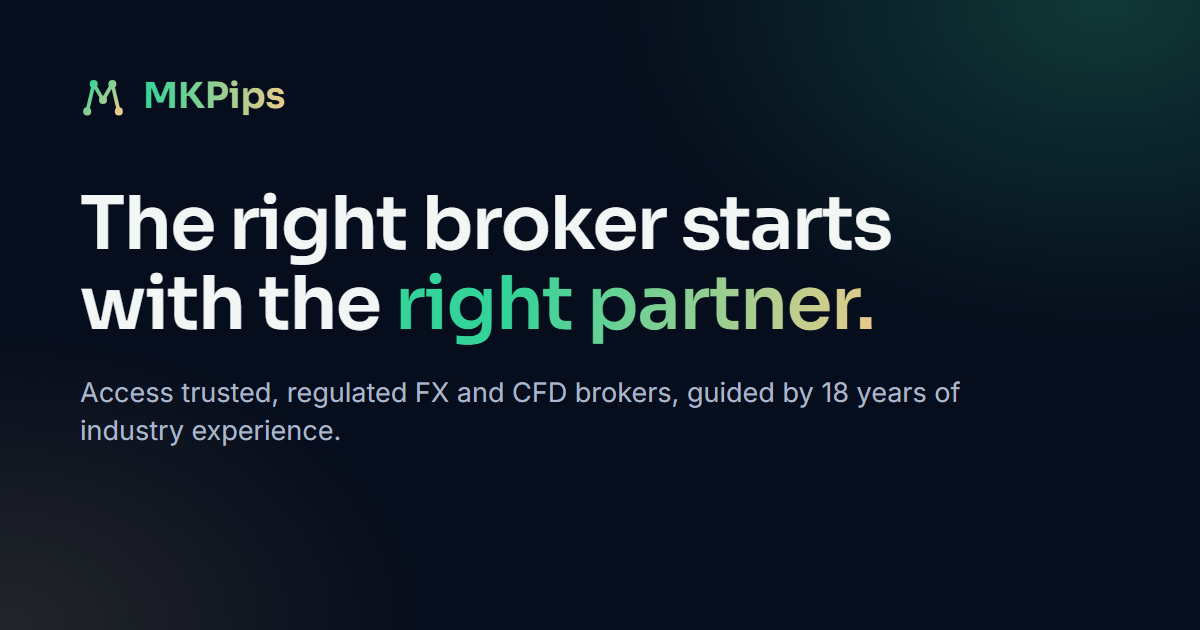
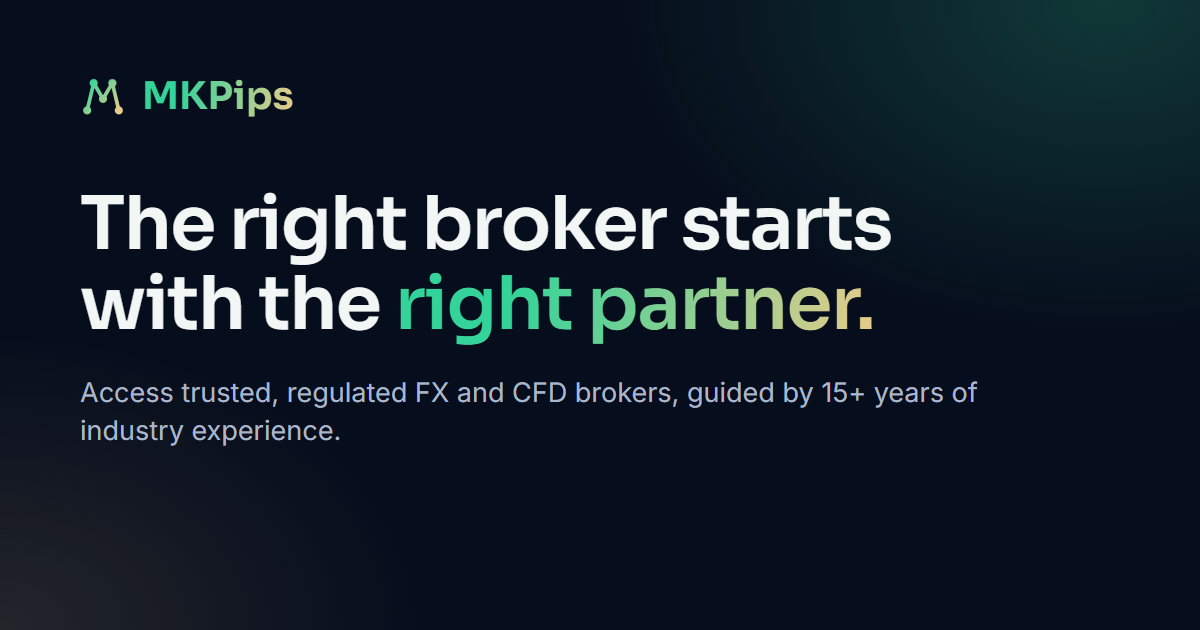
Add founder profile and align experience claim to 15+ years
The About page now shows Muhammad Kaleem's profile from LinkedIn. The
site says 15+ years throughout, matching the public profile.

Changed region(s): [[0.6783, 0.6032, 0.8325, 0.6635], [0.1233, 0.1206, 0.2467, 0.181], [0.0617, 0.1206, 0.0925, 0.1508]]

diff --git a/index.html b/index.html
@@ -6,7 +6,7 @@
     <title>MKPips | Find a regulated FX and CFD broker with expert guidance</title>
     <meta
       name="description"
-      content="MKPips helps FX and CFD traders access trusted, regulated brokers, guided by 18 years of industry experience. General information only. CFDs carry a high risk of losing money."
+      content="MKPips helps FX and CFD traders access trusted, regulated brokers, guided by 15+ years of industry experience. General information only. CFDs carry a high risk of losing money."
     />
     <meta name="theme-color" content="#060d1c" />
     <link rel="icon" type="image/svg+xml" href="/favicon.svg" />
@@ -16,14 +16,14 @@
     <meta property="og:title" content="MKPips | The right broker starts with the right partner" />
     <meta
       property="og:description"
-      content="Access trusted, regulated FX and CFD brokers, guided by 18 years of industry experience."
+      content="Access trusted, regulated FX and CFD brokers, guided by 15+ years of industry experience."
     />
     <meta property="og:image" content="/og-image.png" />
     <meta name="twitter:card" content="summary_large_image" />
     <meta name="twitter:title" content="MKPips | The right broker starts with the right partner" />
     <meta
       name="twitter:description"
-      content="Access trusted, regulated FX and CFD brokers, guided by 18 years of industry experience."
+      content="Access trusted, regulated FX and CFD brokers, guided by 15+ years of industry experience."
     />
     <meta name="twitter:image" content="/og-image.png" />
 

diff --git a/src/pages/About.jsx b/src/pages/About.jsx
@@ -24,7 +24,7 @@ export default function About() {
 
   return (
     <>
-      <PageHeader eyebrow="About" title="Built on 18 years of conversations with traders." intro="MKPips exists because choosing a broker should not depend on who has the loudest advert." />
+      <PageHeader eyebrow="About" title="Built on 15+ years of conversations with traders." intro="MKPips exists because choosing a broker should not depend on who has the loudest advert." />
 
       <section className="shell">
         <Reveal className={`glass grid gap-8 p-6 md:p-10 ${founder.photo ? 'md:grid-cols-[17rem_1fr]' : ''}`}>
@@ -54,7 +54,7 @@ export default function About() {
       </section>
 
       {timeline.length > 0 && <section className="shell pt-16 md:pt-28">
-        <SectionHeading eyebrow="Career timeline" title="18 years in FX and CFD sales." />
+        <SectionHeading eyebrow="Career timeline" title="15+ years in FX and CFD sales." />
         <ol ref={lineRef} className="relative mt-10 grid max-w-3xl gap-8">
           <div className="absolute top-2 bottom-2 left-[7px] w-px bg-line" aria-hidden="true" />
           <motion.div className="absolute top-2 bottom-2 left-[7px] w-px origin-top bg-gradient-to-b from-emerald to-gold" style={{ scaleY }} aria-hidden="true" />

diff --git a/src/pages/Home.jsx b/src/pages/Home.jsx
@@ -102,7 +102,7 @@ export default function Home() {
               The right broker starts with the <span className="text-brand">right partner.</span>
             </motion.h1>
             <motion.p custom={2} variants={rise} initial="hidden" animate="show" className="mt-5 max-w-xl text-base leading-relaxed text-muted sm:text-lg">
-              Access trusted, regulated FX and CFD brokers, guided by 18 years of industry experience.
+              Access trusted, regulated FX and CFD brokers, guided by 15+ years of industry experience.
             </motion.p>
             <motion.div custom={3} variants={rise} initial="hidden" animate="show" className="mt-7 flex flex-col gap-3 sm:flex-row">
               <Button to="/book">
